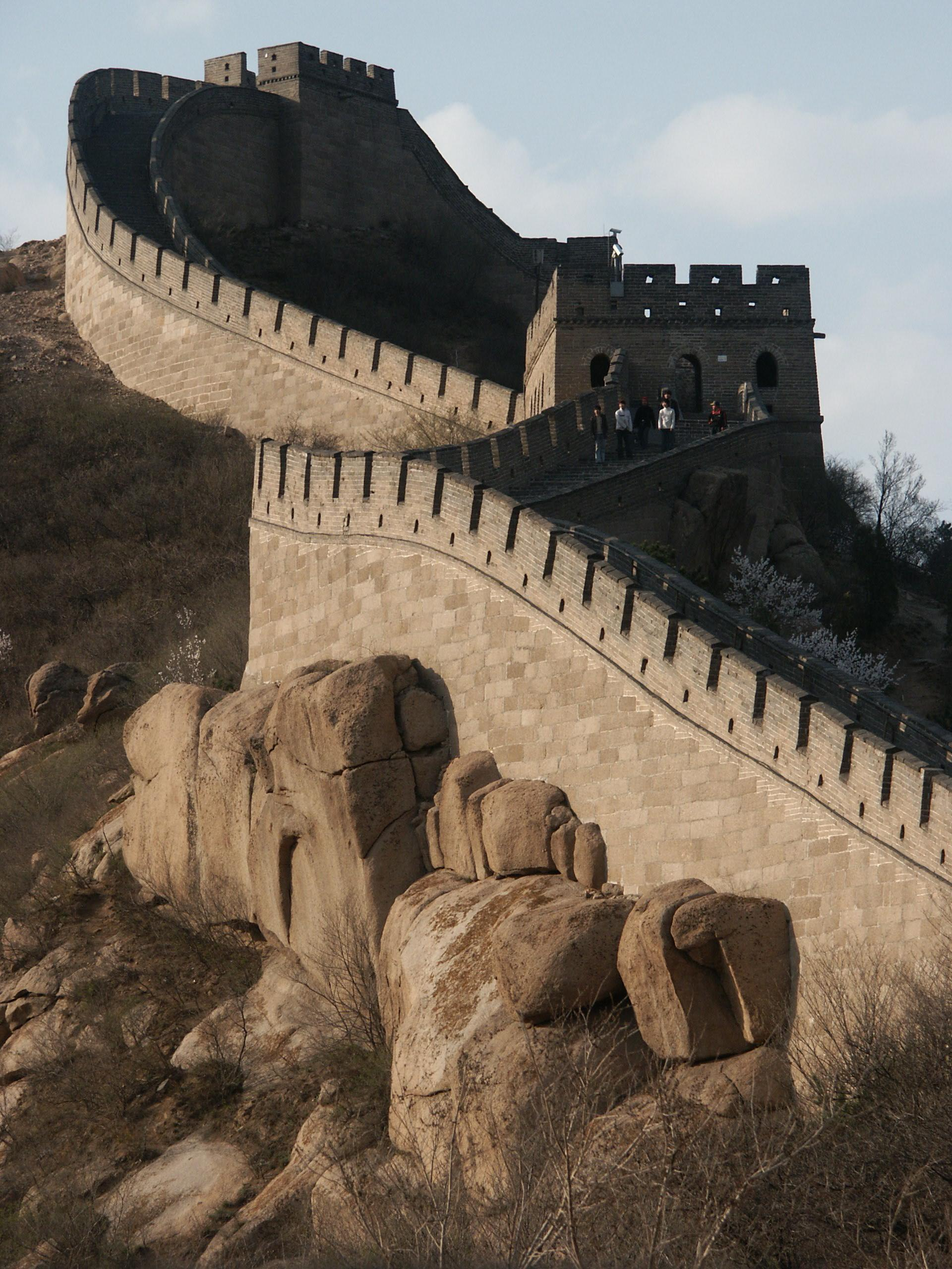
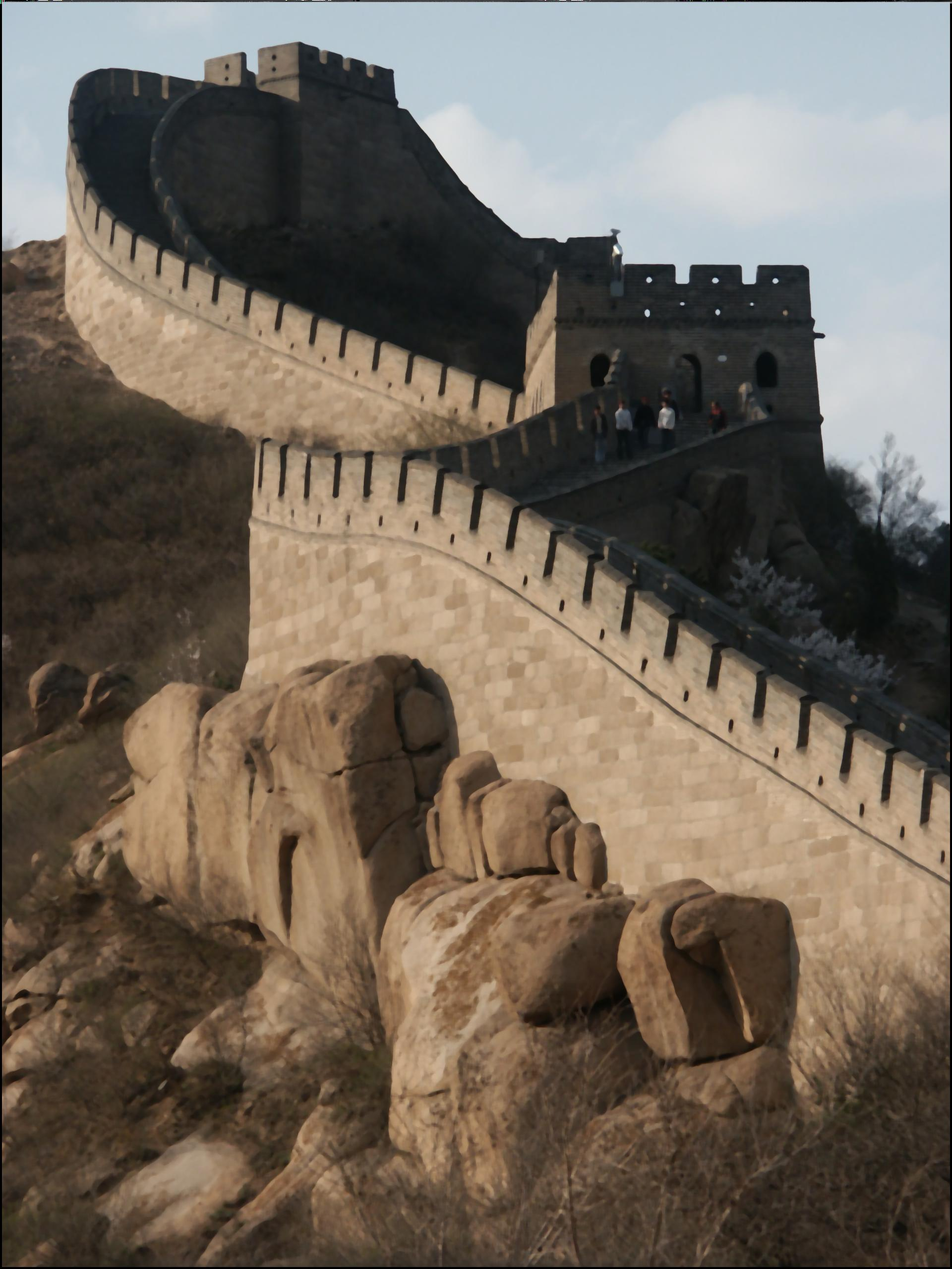
Median working on Master process

diff --git a/Prac3.cpp b/Prac3.cpp
@@ -49,6 +49,7 @@
 
 // Includes needed for the program
 #include "Prac3.h"
+using namespace std;
 
 /** This is the master node function, describing the operations
     that the master will be doing */
@@ -86,16 +87,39 @@ void Master () {
 
  // This is example code of how to copy image files ----------------------------
  printf("Start of example code...\n");
- for(j = 0; j < 10; j++){
+ int window_y = 9;
+ int window_x = 9;
+ int divisor  = window_y*window_x;
+ int window [3][divisor];
+ int counter  = 0;
+ int colcheck =0;
+// for(j = 0; j < 10; j++){
   tic();
   int x, y;
-  for(y = 0; y < Input.Height; y++){
-   for(x = 0; x < Input.Width*Input.Components; x++){
-    Output.Rows[y][x] = Input.Rows[y][x];
+  for(y = int(window_y/2); y < Input.Height-int(window_y/2); y++){
+
+   for(x = int(window_x/2)*Input.Components; x < Input.Width*Input.Components-int(window_x/2)*Input.Components; x=x+3){
+
+     int sum = 0;
+     for(int j = -int(window_y/2); j<int(window_y/2)+1; j++){
+       for(int i = -int(window_x/2)*Input.Components; i<int(window_x/2)*Input.Components+1*Input.Components; i=i+3){
+         window[0][counter] = Input.Rows[y+j][x+i];
+         window[1][counter] = Input.Rows[y+j][x+i+1];
+         window[2][counter] = Input.Rows[y+j][x+i+2];
+         counter++;
+       }
+     }
+     sort(window[0], window[0]+sizeof(window[0])/sizeof(window[0][0]));
+     sort(window[1], window[1]+sizeof(window[1])/sizeof(window[1][0]));
+     sort(window[2], window[2]+sizeof(window[2])/sizeof(window[2][0]));
+     Output.Rows[y][x] = window[0][int(counter/2)];
+     Output.Rows[y][x+1] = window[1][int(counter/2)];
+     Output.Rows[y][x+2] = window[2][int(counter/2)];
+     counter =0;
    }
   }
   printf("Time = %lg ms\n", (double)toc()/1e-3);
- }
+ //}
  printf("End of example code...\n\n");
  // End of example -------------------------------------------------------------
 

diff --git a/Prac3.h b/Prac3.h
@@ -29,6 +29,7 @@
 #include <stdio.h>
 #include <stdlib.h>
 #include <string.h>
+#include <algorithm>
 //------------------------------------------------------------------------------
 
 #include "JPEG.h"
